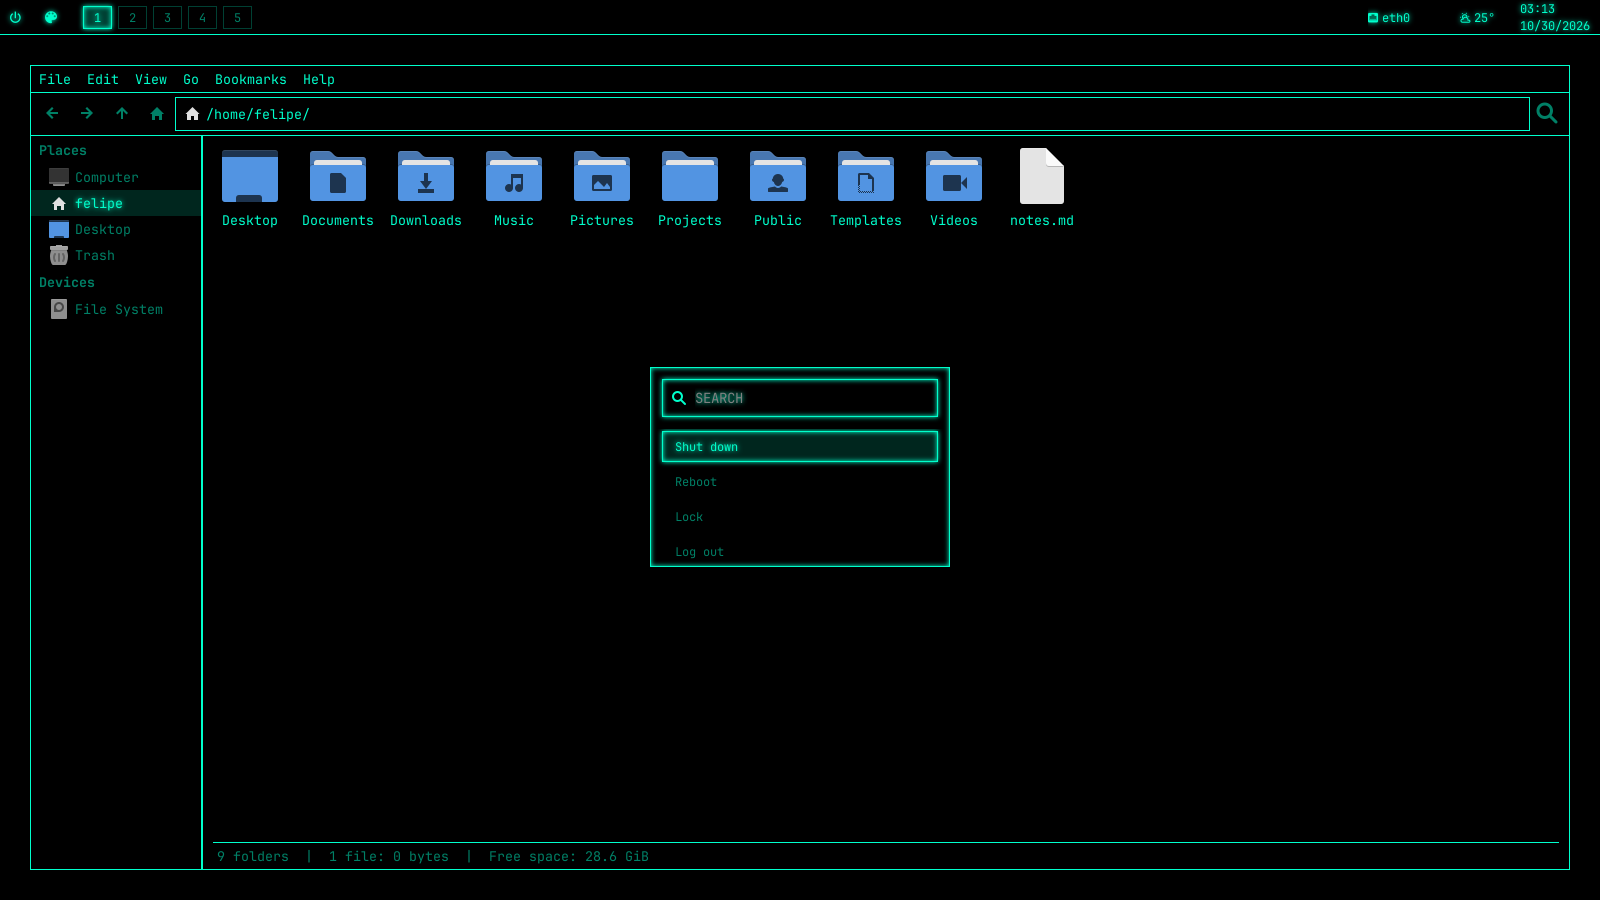
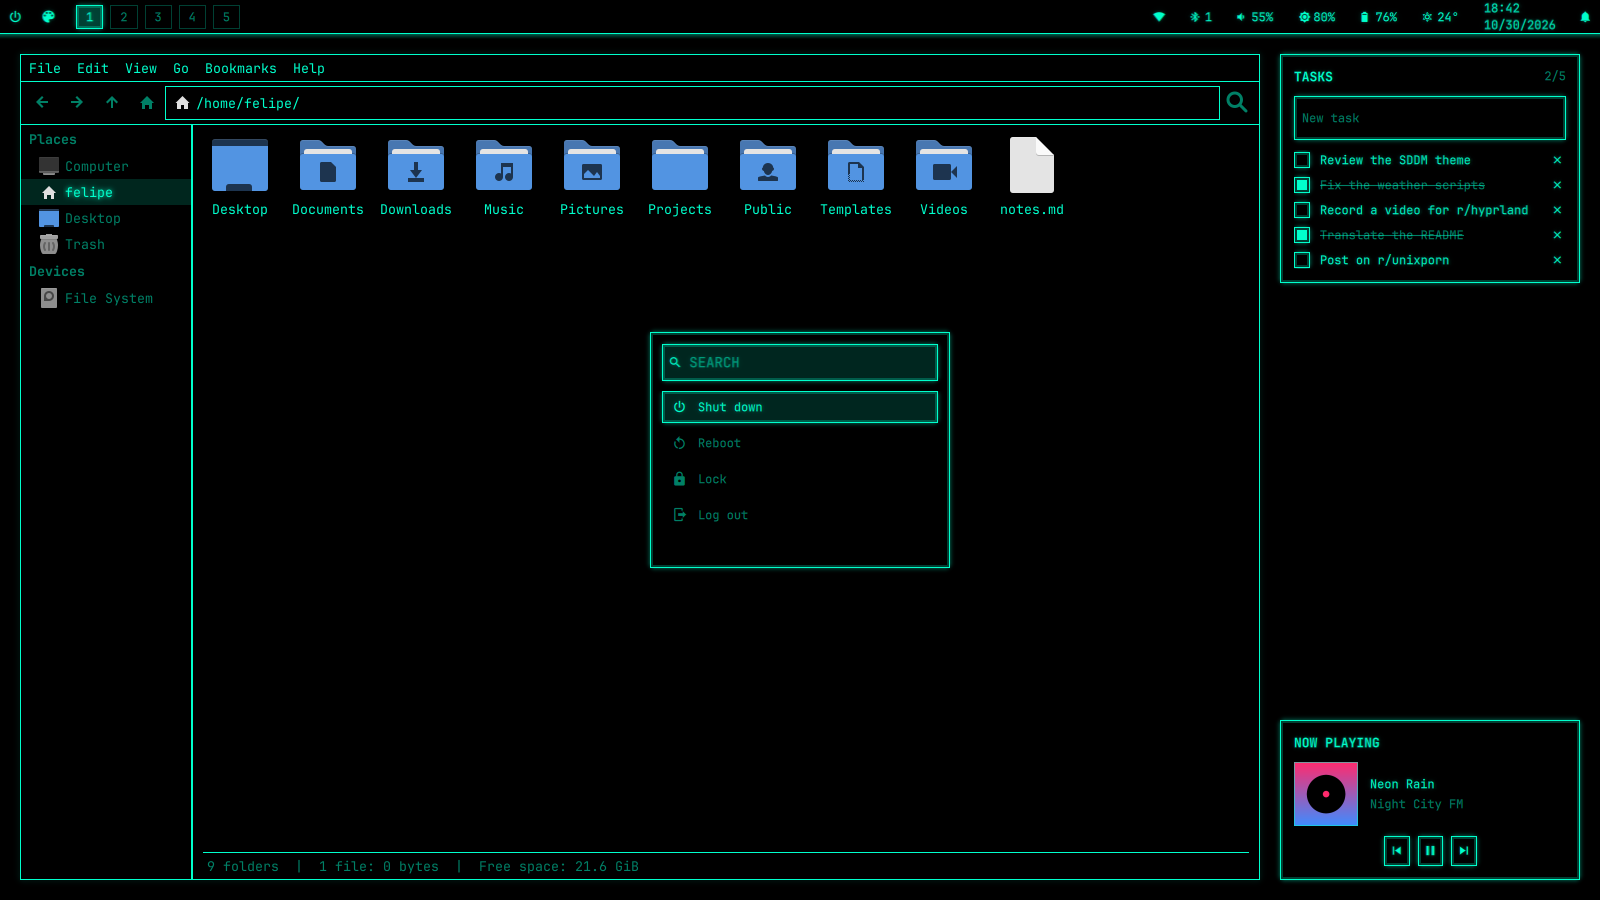
docs: update the screenshots and demo GIF for version 2
The desktop shows the Quickshell bar, Thunar, the task and music
widgets and the power menu; the terminal shows kitty with Neovim and
yazi, with an image preview. The GIF changes the neon across the bar,
Thunar, yazi and the color wheel. The login screen didn't change.

Claude-Session: https://claude.ai/code/session_01MmrGixyBCS45er3vfwFo91

diff --git a/README.md b/README.md
@@ -10,9 +10,9 @@
 
 ## Screenshots
 
-![Desktop with the bar, Thunar and the power menu](assets/screenshots/desktop.png)
+![Desktop with the bar, Thunar, the widgets and the power menu](assets/screenshots/desktop.png)
 
-![The kitty terminal and the Neovim colorscheme](assets/screenshots/terminal-neovim.png)
+![The kitty terminal with Neovim and yazi](assets/screenshots/terminal-neovim.png)
 
 ![The SDDM login screen](assets/screenshots/login.png)
 
